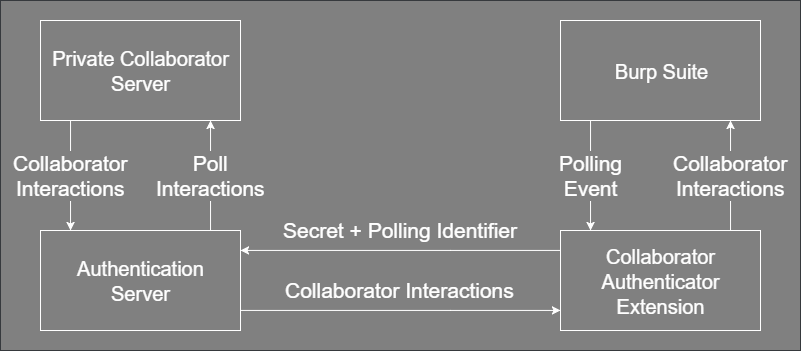
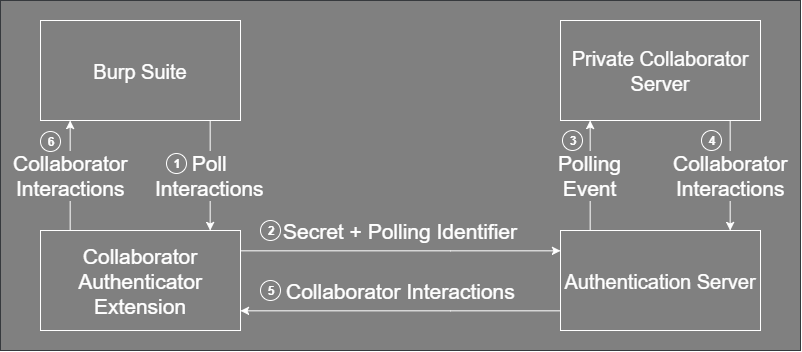
Complete README and improve explanation image

diff --git a/src/main/java/com/nccgroup/collaboratorauth/server/CollaboratorServer.java b/src/main/java/com/nccgroup/collaboratorauth/server/CollaboratorServer.java
@@ -30,7 +30,7 @@ public class CollaboratorServer {
     private static final String SECRET = "secret";
     private static final String LISTEN_PORT = "listen_port";
     private static final String LISTEN_ADDRESS = "listen_address";
-    private static final String LISTEN_SSL = "listen_ssl";
+    private static final String ENABLE_SSL = "enable_ssl";
     private static final String PRIVATE_KEY_PATH = "ssl_private_key_path";
     private static final String CERTIFICATE_PATH = "ssl_certificate_path";
     private static final String INTERMEDIATE_CERTIFICATE_PATH = "ssl_intermediate_certificate_path";
@@ -52,7 +52,7 @@ public class CollaboratorServer {
 
         listenPort = Integer.parseInt(properties.getProperty(LISTEN_PORT));
         InetAddress listenAddress = InetAddress.getByName(properties.getProperty(LISTEN_ADDRESS));
-        boolean listenSSL = Boolean.parseBoolean(properties.getProperty(LISTEN_SSL));
+        boolean enableSSL = Boolean.parseBoolean(properties.getProperty(ENABLE_SSL));
         logLevel = properties.getProperty(LOG_LEVEL);
 
         String secret = properties.getProperty(SECRET);
@@ -63,7 +63,7 @@ public class CollaboratorServer {
                 .setLocalAddress(listenAddress)
                 .registerHandler("*", new HttpHandler(actualAddress, actualPort, actualIsHttps, secret, logLevel));
 
-        if(listenSSL){
+        if(enableSSL){
             System.out.println("Starting server in HTTPS mode. Creating SSL context.");
             SSLContext sslContext;
             if(!properties.getProperty(PRIVATE_KEY_PATH).equals("")){
@@ -176,13 +176,13 @@ public class CollaboratorServer {
         defaultProperties.setProperty(COLLABORATOR_SERVER_PORT, "80");
         defaultProperties.setProperty(LISTEN_PORT, "5050");
         defaultProperties.setProperty(LISTEN_ADDRESS, "0.0.0.0");
-        defaultProperties.setProperty(LISTEN_SSL, "false");
+        defaultProperties.setProperty(ENABLE_SSL, "false");
         defaultProperties.setProperty(PRIVATE_KEY_PATH, "/certs/key.pem.pkcs8");
         defaultProperties.setProperty(CERTIFICATE_PATH, "/certs/cert.crt");
         defaultProperties.setProperty(INTERMEDIATE_CERTIFICATE_PATH, INTERMEDIATE_CERTIFICATE_DEFAULT);
         defaultProperties.setProperty(KEYSTORE_FILE, "/path/to/java/keystore");
-        defaultProperties.setProperty(KEYSTORE_PASSWORD, "KEYSTOREPASSWORD");
-        defaultProperties.setProperty(KEYSTORE_KEY_PASSWORD, "KEYSTOREPASSWORD_FOR_KEYS");
+        defaultProperties.setProperty(KEYSTORE_PASSWORD, "NEW_PASSWORD_FOR_KEYSTORE");
+        defaultProperties.setProperty(KEYSTORE_KEY_PASSWORD, "NEW_PASSWORD_FOR_PRIVATE_KEY");
 
         defaultProperties.setProperty(SECRET, "CHANGE_ME");
         defaultProperties.setProperty(LOG_LEVEL, "INFO");

diff --git a/README.md b/README.md
@@ -1,36 +1,99 @@
-## Collaborator Auth - Client Component
+## Collaborator Auth - Client
 
 #### Running the Client
-1. Add the extension to Burp. *Note: This is the same jar as the server.*
-2. Specify the address and the Collaborator Auth Server is listening on.
+1. Add the extension to Burp. 
+    * *Note: This is the same jar as the server.*
+2. Specify the address and the port the Collaborator Auth Server is listening on within the extension config.
 3. Specify the secret configured by the server.
-4. Start the local server, this will also configure the polling settings within burp for you. 
-(Note: You will still have to configure the interaction location within the collaborator settings)
+4. Start the local server, this will also configure the collaborator settings within Burp for you.
 5. Optional: Run Burp's Collaborator health check to make sure everything is working.
 
 
-## Collaborator Auth - Server Component
+#### Additional Settings
+A few additional settings have been added to Collaborator Auth for convenience.
+
+**Use SSL:** Toggle the use of SSL between the client and server. 
+*Be sure your server is configured to use SSL on the target port too.*
+
+**Ignore Certificate Errors:** Disables certificate validity checks. 
+*Allows usage of self-signed / expired certificates.*
+
+**Enable SSL Hostname Verification:** Do not check the certificate hostname matches the target domain.
+
+**Block Public Collaborator Server:** Prevents accidental usage of the public Burp collaborator server.
+Adds a DNS entry for *"burpcollaborator.net"* to *127.0.0.1* in Burp's hostname resolution config.
+
+
+## Collaborator Auth - Server
 
 #### Running the Server
 1. Execute `java -jar CollaboratorAuth.jar` to generate the default configuration.
 2. Edit the generated file to point to your private collaborator instance and choose a suitable secret.
-3. Run the server again and specify the configuration to be used `java -jar CollaboratorAuth.jar CollaboratorServer.properties`
+3. Run the server again and specify the configuration to be used `java -jar CollaboratorAuth.jar YOURCONFIGFILE.properties`
 
 *Note: To allow HTTP and HTTPS requests to the Collaborator Auth server, create two copies of the configuration file, 
 configuring one for HTTP and one for HTTPS and run two instances of the Collaborator Auth server.*
 
-#### Optional: Generate the KeyStore from certificate and private key to enable polling over HTTPS
+#### SSL Configuration
 
-1) `openssl pkcs12 -export -in certificate.crt -inkey private.key -out polling.domain.p12 -name polling`
-2) Enter a password to use for the key.
-3) `keytool -importkeystore -deststorepass NEW_PASSWORD_FOR_KEYSTORE -destkeypass NEW_PASSWORD_FOR_KEY \ `
-    <br/>`-destkeystore polling.domain.jks -srckeystore polling.p12 -srcstoretype PKCS12 \ `
-    <br/>`-srcstorepass KEY_PASS_FROM_PREVIOUS_STEP -alias polling`  
-4) Edit the configuration file to enable ssl, point the server to the keystore and specify the passwords used.
-5) Run the server again and specify the configuration to be used `java -jar CollaboratorAuth.jar CollaboratorServer.properties`
+To enable the usage of SSL, generate a certificate for the server and use one of the below methods to configure the server.
+
+For both methods, ensure `enable_ssl` is `true` in the config file. 
+
+##### Recommended: Simple Configuration
+
+1. Generate a new private key and certificate to use for the server using the following command, or use an existing one.
+    - `openssl req -newkey rsa:2048 -nodes -keyout privatekey.pem -x509 -days 365 -out certificate.pem`
+1. Optional: Get the certificate signed by a trusted CA.
+1. Edit the config file:
+    - Set `ssl_private_key_path` to the path of your private key.
+    - Set `ssl_certificate_path` to the path of your certificate.
+    - If your certificate chain requires an intermediate certificate:
+        - Set `ssl_intermediate_certificate_path` to the path of your intermediate certificate.
+
+##### Alternative: Java Keystore
+
+This method was added purely for compatability reasons. I highly recommend using the simple configuration unless
+there is a reason otherwise.  
+
+1. Edit the config file and set the value for `ssl_private_key_path` to an empty string `""`. 
+    - This will enable the use of the keystore for configuration. 
+1. Generate a new private key and certificate to use for the server using the following command.
+    - `openssl req -newkey rsa:2048 -nodes -keyout privatekey.pem -x509 -days 365 -out certificate.pem`
+1. Convert the key and certificate to PKCS12. 
+    - `openssl pkcs12 -export -in certificate.pem -inkey privatekey.pem -out polling.p12 -name polling`
+1. Enter a password to be used for encrypting the PKCS12 file. **This will be used in the next step!** 
+1. Import the PKCS12 file into a new Java Keystore. 
+    - `keytool -importkeystore -deststorepass NEW_PASSWORD_FOR_KEYSTORE -destkeypass NEW_PASSWORD_FOR_PRIVATE_KEY \ `
+    <br/>`-destkeystore polling.jks -srckeystore polling.p12 -srcstoretype PKCS12 \ `
+    <br/>`-srcstorepass PASS_FROM_PREVIOUS_STEP -alias polling`  
+1. Edit the configuration file to enable ssl, point the server to the keystore and specify the passwords used.
+1. Run the server again and specify the configuration to be used `java -jar CollaboratorAuth.jar CollaboratorServer.properties`
 
 #### Recommended: Secure the *actual* Collaborator Server
 
-1) Change the interface and polling port used by Burp Collaborator.
-- It is recommended to use the loopback interface for this.
- 
+To prevent polling of the Collaborator Server without the usage of Collaborator Auth, 
+the Burp Collaborators polling location must be restricted. 
+
+This may be done using your firewall, or by modifying the listening interface for polling events.
+
+##### Option 1 - Always require usage of Collaborator Auth.
+Should you wish to force users of your Burp Collaborator instance to authenticate regardless of their network, 
+Burp Collaborator can be configured to listen to polling events only on the local machine (i.e. from Collaborator Auth).
+
+This can be done by changing Burp Collaborator's listening address for polling events to the loopback interface (127.0.0.1) or 
+using something like iptables to drop incoming requests.
+
+SHAPSHOT OF COLLABORATOR CONFIG
+
+
+##### Option 2 - Only require usage of Collaborator Auth on external networks.  
+To allow Burp Collaborator to be used as normal when on the same network as the server, but require Collaborator Auth
+to be used when on an external network, Burp Collaborator can be configured to listen to polling events from
+internal addresses.
+
+This can be done by changing Burp Collaborator's listening address to polling events to the server's internal address 
+(192.168.x.x, 10.x.x.x, etc.). 
+
+To ensure external polling events are not processed by Burp Collaborator, the polling port should be blocked on the
+internet facing firewall. Alternatively, use iptables to drop incoming traffic from external networks.
